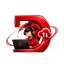
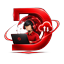
fix(acesso-remoto): titlebar DeskRemote e ícone D legível (1.0.12)
Janela/Sobre usam DeskRemote (exe continua DeskRudder). Ícones 16–64
e tray passam a um D vermelho simplificado; arte completa segue no
painel host e nos tamanhos grandes.

diff --git a/deploy/rustdesk-client/scripts/render_remote_icons.py b/deploy/rustdesk-client/scripts/render_remote_icons.py
@@ -6,9 +6,9 @@ Fonte padrao: branding/icon-source-official.png
 Preferivel: PNG com alpha real (export do Figma/Photoshop).
 JPEG com xadrez de “transparencia” achatado e suportado de forma best-effort.
 
-- tamanhos grandes: arte completa (com wordmark)
-- 16/32/48/tray + ui-logo: mark (personagem + setas), sem texto
-- ui-logo: PNG com alpha real (sem placa opaca) — funciona no tema escuro e claro
+- tamanhos grandes (128+): arte completa
+- ui-logo 256/512: arte completa (painel host)
+- 16/32/48/64/tray e frames ICO <= 64: mark «D» simplificado (legivel na titlebar)
 """
 
 from __future__ import annotations
@@ -16,10 +16,14 @@ from __future__ import annotations
 from collections import deque
 from pathlib import Path
 
-from PIL import Image, ImageFilter
+from PIL import Image, ImageDraw, ImageFilter, ImageFont
 
 BRANDING = Path(__file__).resolve().parent.parent / "branding"
 DEFAULT_SOURCE = BRANDING / "icon-source-official.png"
+
+# Vermelho da arte DeskRemote (D metalico).
+_BRAND_RED = (220, 28, 42, 255)
+_BRAND_RED_DARK = (140, 12, 24, 255)
 
 
 def _to_rgba_transparent(im: Image.Image) -> Image.Image:
@@ -251,13 +255,57 @@ def _fit_square(im: Image.Image, size: int) -> Image.Image:
     return out
 
 
-def _ui_logo(mark: Image.Image, size: int) -> Image.Image:
-    """Mark com fundo transparente para o painel host (dark e light).
+def _simplified_d_mark(size: int) -> Image.Image:
+    """«D» solido legivel na titlebar/taskbar (16–48px).
 
-    Sem chroma-key pos-resize: meios-tons do cursor branco nao podem ser
-    filtrados como 'migalha' — isso furava o preenchimento da seta.
+    A arte completa vira um borrão vermelho nesses tamanhos; o mark geometrico
+    mantem a identidade DeskRemote sem o personagem/globo.
     """
-    return _fit_square(mark, size)
+    scale = 8
+    canvas = size * scale
+    img = Image.new("RGBA", (canvas, canvas), (0, 0, 0, 0))
+    draw = ImageDraw.Draw(img)
+    cx = cy = canvas // 2
+
+    if size >= 24:
+        glow_r = int(canvas * 0.40)
+        for i in range(5, 0, -1):
+            a = int(36 * i / 5)
+            rr = glow_r + i * scale
+            draw.ellipse([cx - rr, cy - rr, cx + rr, cy + rr], fill=(220, 28, 42, a))
+
+    font = None
+    for path in (
+        "/usr/share/fonts/truetype/dejavu/DejaVuSans-Bold.ttf",
+        "/usr/share/fonts/truetype/liberation/LiberationSans-Bold.ttf",
+        "/usr/share/fonts/truetype/freefont/FreeSansBold.ttf",
+    ):
+        try:
+            font = ImageFont.truetype(path, int(canvas * 0.82))
+            break
+        except OSError:
+            continue
+
+    if font is None:
+        raise SystemExit("Fonte bold nao encontrada para mark D da titlebar")
+
+    text = "D"
+    bbox = draw.textbbox((0, 0), text, font=font)
+    tw, th = bbox[2] - bbox[0], bbox[3] - bbox[1]
+    x = (canvas - tw) // 2 - bbox[0]
+    y = (canvas - th) // 2 - bbox[1] - int(canvas * 0.03)
+    draw.text((x + scale, y + scale), text, font=font, fill=_BRAND_RED_DARK)
+    draw.text((x, y), text, font=font, fill=_BRAND_RED)
+
+    out = img.resize((size, size), Image.Resampling.LANCZOS)
+    if size <= 32:
+        out = out.filter(ImageFilter.UnsharpMask(radius=0.5, percent=140, threshold=1))
+    return out
+
+
+def _ui_logo(full: Image.Image, size: int) -> Image.Image:
+    """Arte completa com fundo transparente para o painel host (dark e light)."""
+    return _fit_square(full, size)
 
 
 def write_branding(out_dir: Path, source: Path = DEFAULT_SOURCE) -> None:
@@ -268,45 +316,51 @@ def write_branding(out_dir: Path, source: Path = DEFAULT_SOURCE) -> None:
     raw = Image.open(source)
     rgba = _to_rgba_transparent(raw)
     full = _crop_pad_square(rgba, pad_ratio=0.04)
-    mark = _mark_without_text(rgba)
 
     full.save(out_dir / "icon-source-1024.png")
     rgba.save(out_dir / "icon-source-official.png")
 
-    mapping = {
-        "deskrudder-16.png": (mark, 16),
-        "deskrudder-32.png": (mark, 32),
-        "deskrudder-48.png": (mark, 48),
-        "deskrudder-64.png": (mark, 64),
-        "deskrudder-128.png": (full, 128),
-        "deskrudder-256.png": (full, 256),
-        "32x32.png": (mark, 32),
-        "128x128.png": (full, 128),
-        "128x128@2x.png": (full, 128),
-        "icon.png": (full, 256),
-    }
-    rendered: dict[tuple[int, str], Image.Image] = {}
-    for name, (base, size) in mapping.items():
-        key = (size, "mark" if base is mark else "full")
-        if key not in rendered:
-            rendered[key] = _fit_square(base, size)
-        rendered[key].save(out_dir / name)
+    # Cache de marks simplificados e full
+    simple: dict[int, Image.Image] = {}
+    full_fit: dict[int, Image.Image] = {}
 
-    _ui_logo(mark, 512).save(out_dir / "ui-logo-512.png")
-    _ui_logo(mark, 256).save(out_dir / "ui-logo-256.png")
+    def icon_for(size: int) -> Image.Image:
+        if size <= 64:
+            if size not in simple:
+                simple[size] = _simplified_d_mark(size)
+            return simple[size]
+        if size not in full_fit:
+            full_fit[size] = _fit_square(full, size)
+        return full_fit[size]
+
+    mapping = {
+        "deskrudder-16.png": 16,
+        "deskrudder-32.png": 32,
+        "deskrudder-48.png": 48,
+        "deskrudder-64.png": 64,
+        "deskrudder-128.png": 128,
+        "deskrudder-256.png": 256,
+        "32x32.png": 32,
+        "128x128.png": 128,
+        "128x128@2x.png": 128,
+        "icon.png": 256,
+    }
+    for name, size in mapping.items():
+        icon_for(size).save(out_dir / name)
+
+    # Painel host: arte completa (nao o D simplificado)
+    _ui_logo(full, 512).save(out_dir / "ui-logo-512.png")
+    _ui_logo(full, 256).save(out_dir / "ui-logo-256.png")
 
     ico_sizes = [(16, 16), (32, 32), (48, 48), (64, 64), (128, 128), (256, 256)]
-    frames = []
-    for iw, ih in ico_sizes:
-        base = mark if iw <= 64 else full
-        frames.append(_fit_square(base, iw))
+    frames = [icon_for(iw) for iw, _ih in ico_sizes]
     frames[-1].save(
         out_dir / "icon.ico",
         format="ICO",
         sizes=ico_sizes,
         append_images=frames[:-1],
     )
-    _fit_square(mark, 32).save(out_dir / "tray-icon.ico", format="ICO", sizes=[(32, 32)])
+    icon_for(32).save(out_dir / "tray-icon.ico", format="ICO", sizes=[(32, 32)])
     print(f">> icones gerados de {source.name} em {out_dir}")
 
 

diff --git a/deploy/rustdesk-client/scripts/apply_branding.py b/deploy/rustdesk-client/scripts/apply_branding.py
@@ -236,7 +236,12 @@ def patch_portable_metadata(cargo_toml: Path) -> None:
         return
     text = cargo_toml.read_text(encoding="utf-8")
     orig = text
-    text = re.sub(r'(?m)^ProductName = ".*"$', 'ProductName = "DeskRudder"', text, count=1)
+    text = re.sub(
+        r'(?m)^ProductName = ".*"$',
+        f'ProductName = "{PRODUCT_DISPLAY_NAME}"',
+        text,
+        count=1,
+    )
     text = re.sub(
         r'(?m)^FileDescription = ".*"$',
         f'FileDescription = "{PRODUCT_DISPLAY_NAME}"',
@@ -251,7 +256,44 @@ def patch_portable_metadata(cargo_toml: Path) -> None:
     )
     if text != orig:
         cargo_toml.write_text(text, encoding="utf-8")
-        print("  portable Cargo.toml ProductName/FileDescription -> DeskRudder", flush=True)
+        print(
+            f"  portable Cargo.toml ProductName/FileDescription -> {PRODUCT_DISPLAY_NAME}",
+            flush=True,
+        )
+
+
+def patch_window_display_name(ui_rs: Path) -> None:
+    """Titlebar + Sobre usam DeskRemote; APP_NAME/exe continua DeskRudder."""
+    if not ui_rs.is_file():
+        raise SystemExit(f"Falta {ui_rs}")
+    text = ui_rs.read_text(encoding="utf-8")
+    name = PRODUCT_DISPLAY_NAME
+
+    old_title = "frame.set_title(&crate::get_app_name());"
+    new_title = f'frame.set_title("{name}");'
+    if old_title in text:
+        text = text.replace(old_title, new_title, 1)
+    elif f'frame.set_title("{name}");' not in text:
+        raise SystemExit("frame.set_title(get_app_name) nao encontrado em ui.rs")
+
+    old_fn = (
+        "    fn get_app_name(&self) -> String {\n"
+        "        get_app_name()\n"
+        "    }"
+    )
+    new_fn = (
+        "    fn get_app_name(&self) -> String {\n"
+        f'        // Nome de exibicao na UI; exe/APP_NAME continua DeskRudder.\n'
+        f'        "{name}".to_owned()\n'
+        "    }"
+    )
+    if old_fn in text:
+        text = text.replace(old_fn, new_fn, 1)
+    elif f'"{name}".to_owned()' not in text or "fn get_app_name(&self)" not in text:
+        raise SystemExit("UI get_app_name() nao encontrado para patch de display name")
+
+    ui_rs.write_text(text, encoding="utf-8")
+    print(f"  ui.rs: titlebar/Sobre -> {name}", flush=True)
 
 
 def patch_config_rs(path: Path, host: str, key: str) -> None:
@@ -1599,6 +1641,7 @@ def main() -> int:
     if not png_128.is_file():
         png_128 = brand / "deskrudder-128.png"
     patch_sciter_window_icon(src / "src" / "ui.rs", png_128)
+    patch_window_display_name(src / "src" / "ui.rs")
     patch_powered_by(src / "src" / "lang")
 
     cfg_rs = src / "libs" / "hbb_common" / "src" / "config.rs"
@@ -1660,6 +1703,18 @@ def main() -> int:
     our_b64 = base64.b64encode(png_128.read_bytes()).decode("ascii")
     if our_b64 not in ui_body:
         print("Verificacao falhou: get_icon() sem PNG DeskRudder.", file=sys.stderr)
+        return 1
+    if f'frame.set_title("{PRODUCT_DISPLAY_NAME}");' not in ui_body:
+        print(
+            f"Verificacao falhou: titlebar sem set_title({PRODUCT_DISPLAY_NAME}).",
+            file=sys.stderr,
+        )
+        return 1
+    if f'"{PRODUCT_DISPLAY_NAME}".to_owned()' not in ui_body:
+        print(
+            f"Verificacao falhou: UI get_app_name sem {PRODUCT_DISPLAY_NAME}.",
+            file=sys.stderr,
+        )
         return 1
     if "fn is_system_dark_theme" not in ui_body or "set_titlebar_dark" not in ui_body:
         print("Verificacao falhou: tema/titlebar ausente em ui.rs.", file=sys.stderr)

diff --git a/CHANGELOG.md b/CHANGELOG.md
@@ -28,6 +28,7 @@ Versão CalVer (`YY.MM.NNN`) é atribuída automaticamente no deploy de `staging
 
 #### Correções
 
+- Acesso remoto: barra de título e menu Sobre mostram **DeskRemote** (antes DeskRudder); ícone pequeno da janela/bandeja vira um **D** vermelho legível (versão 1.0.12)
 - Acesso remoto: logo e ícones do **DeskRemote** atualizados com a arte oficial (D + atendente + nuvem), fundo transparente e glow preservado (versão 1.0.11)
 - Acesso remoto: o produto passa a se chamar **DeskRemote** na janela, no atalho e nos textos do painel (versão 1.0.10). O tipo da frota no cadastro também; nomes antigos (DeskRudder / RustDesk) continuam reconhecidos. Pasta e `.exe` no Windows seguem iguais para não quebrar quem já instalou
 - Acesso remoto: dá para **atualizar o posto à distância** sem alguém na frente do PC (versão 1.0.9) — o app enfileira o instalador e o serviço Windows aplica com `--update` sem pedir UAC; a sessão remota pode cair enquanto o app troca os arquivos
